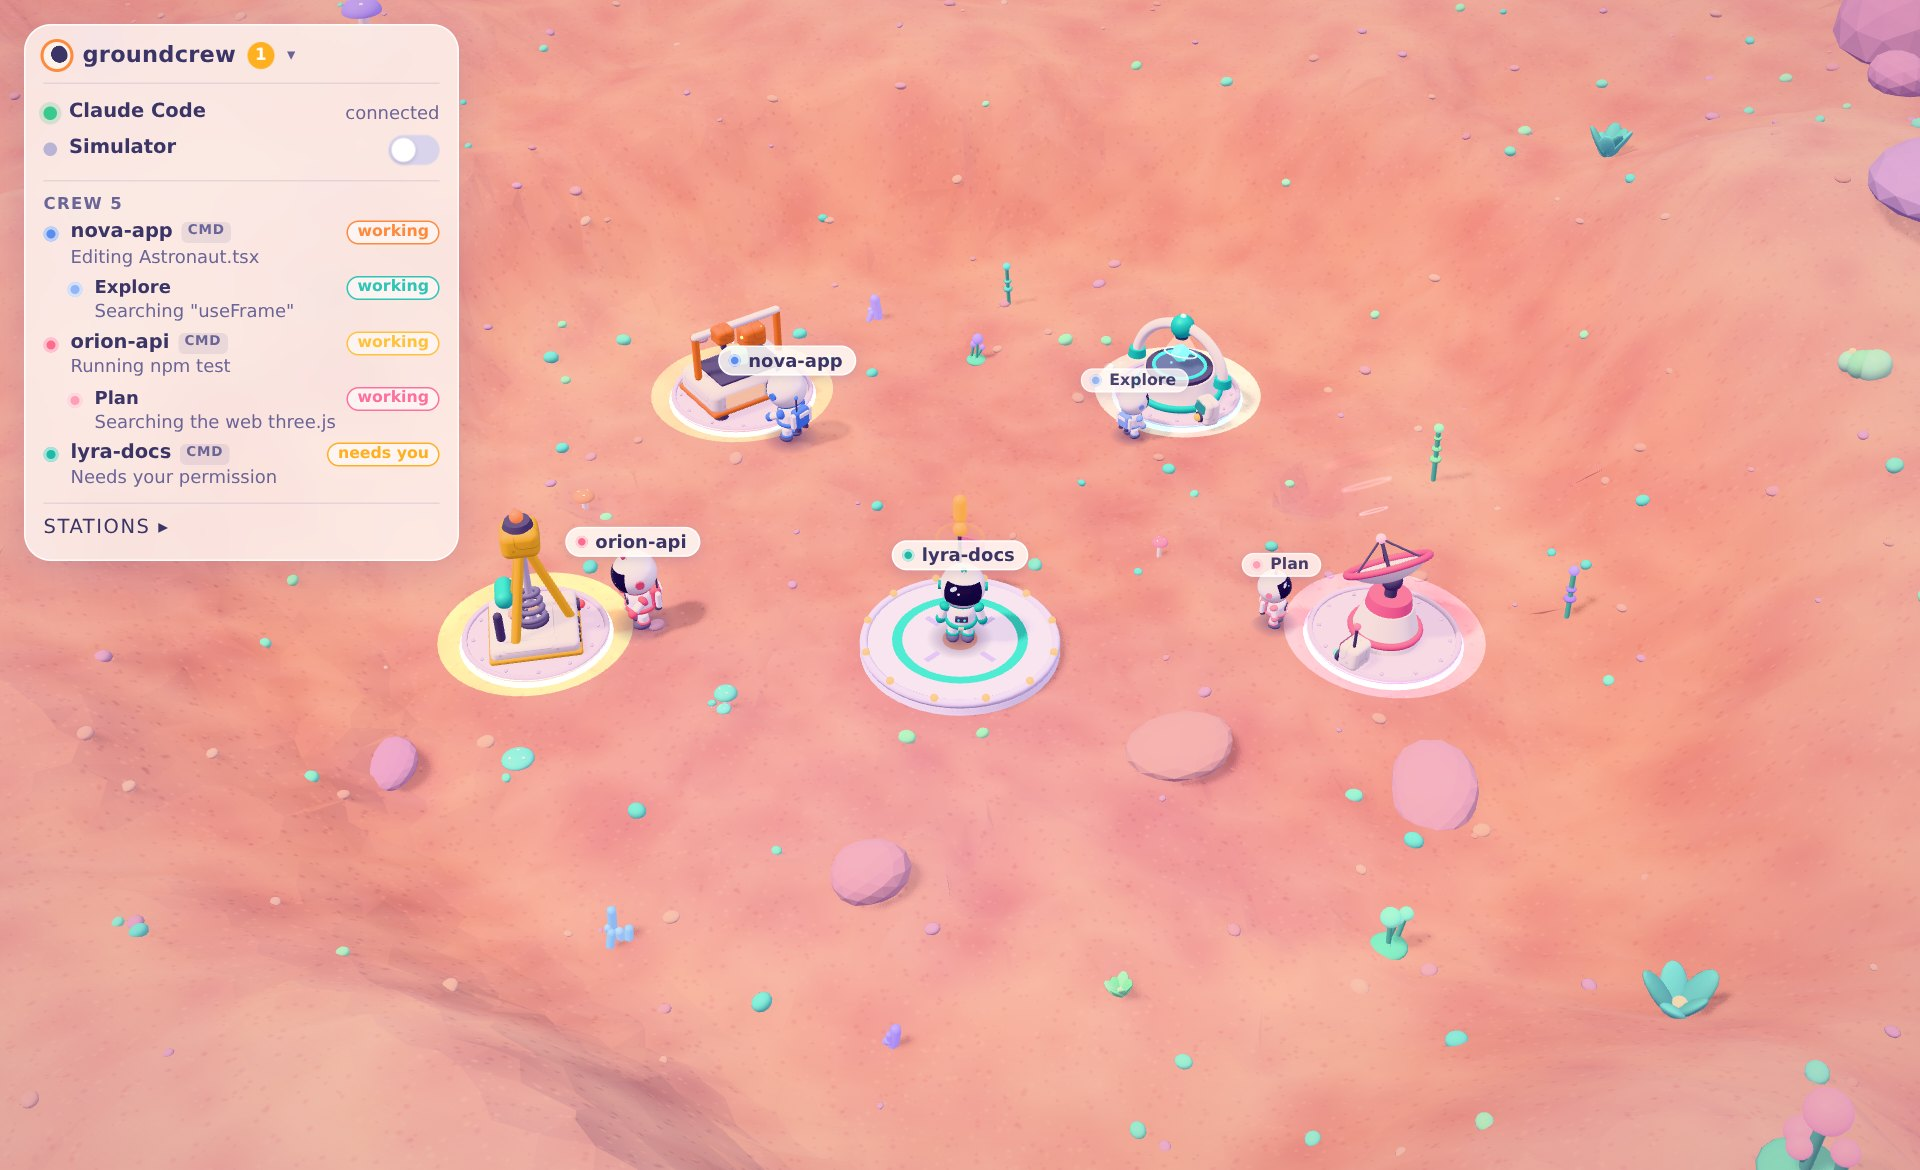
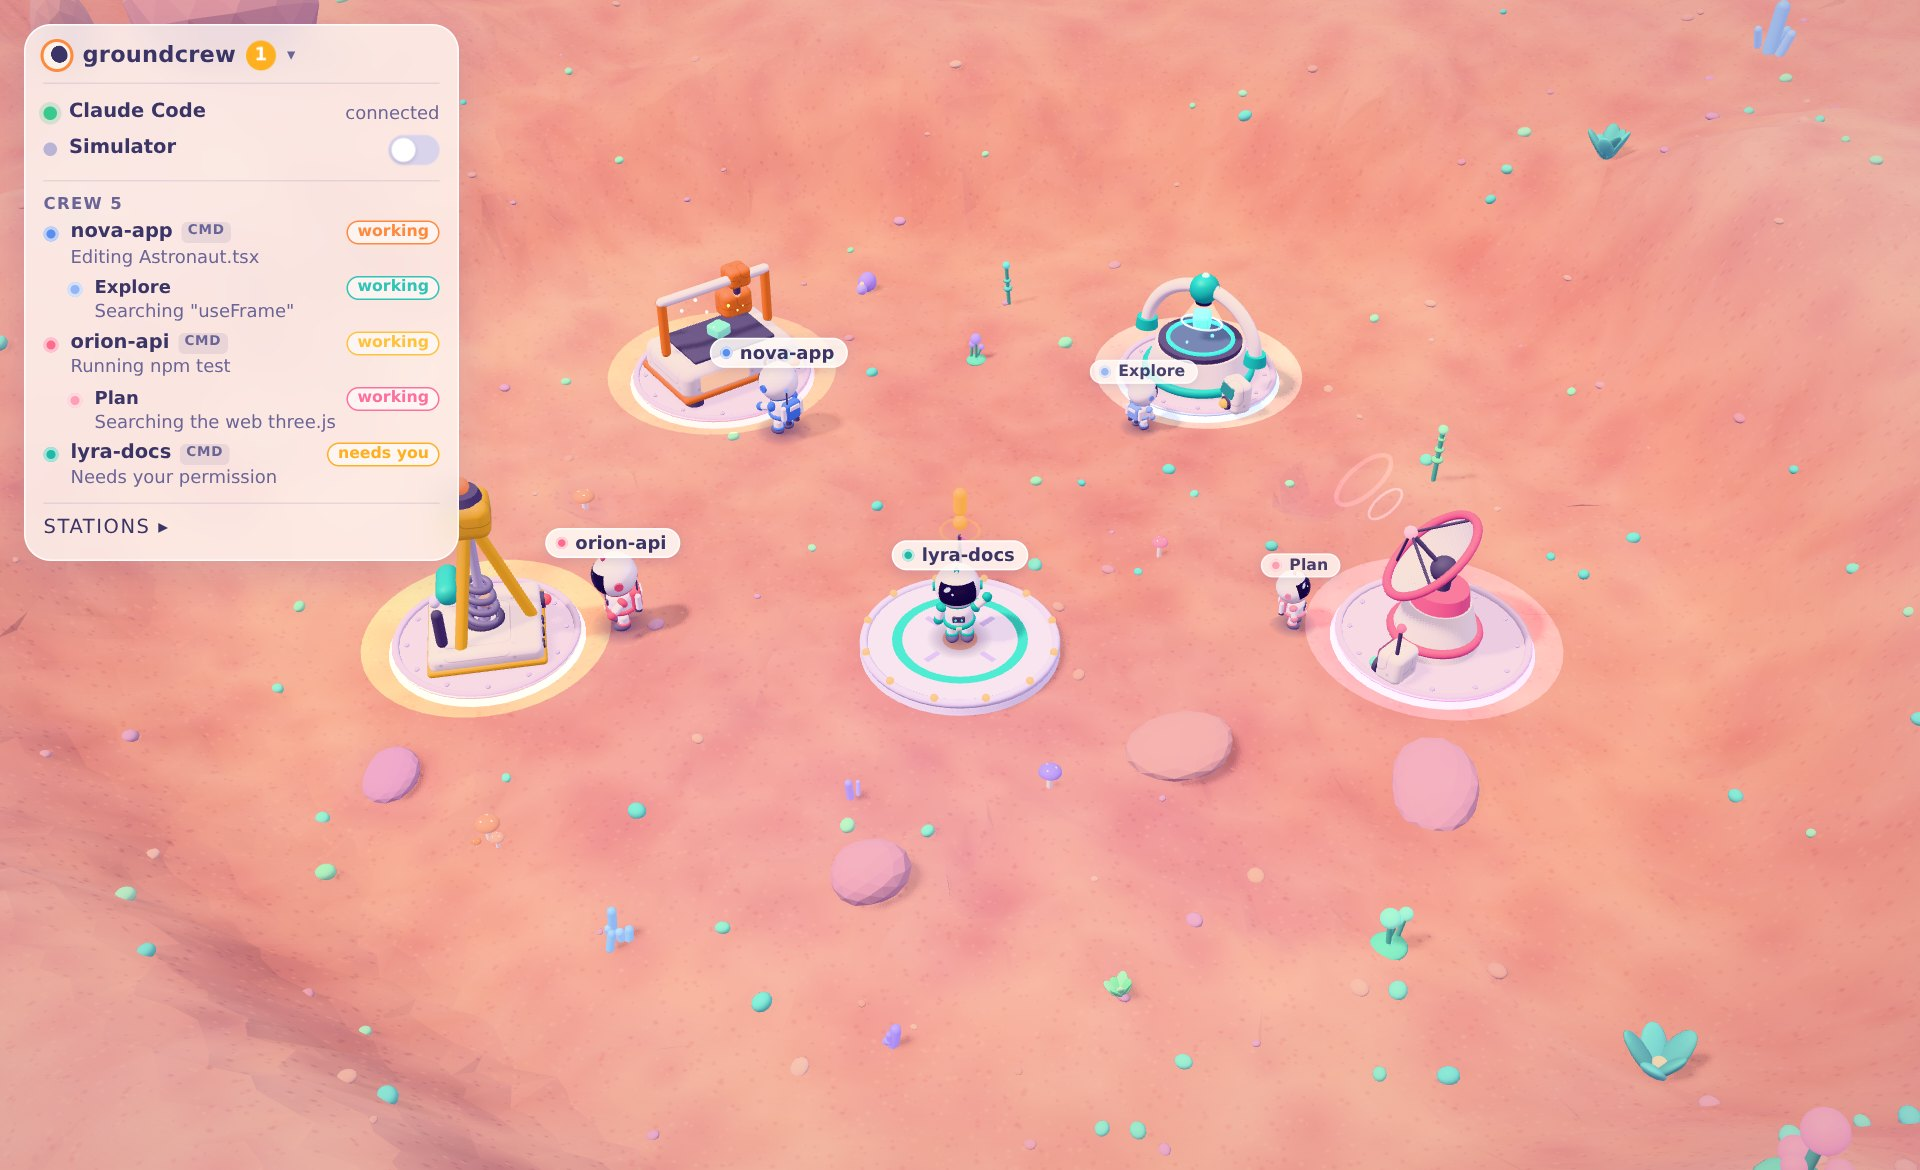
bigger stations, fewer pebbles, stations never sink into terrain
- Stations built at 1.65x (was 1.3x) and moved slightly further out so
  their work spots don't crowd the pad; the landing pad keeps its size
  via a separate PAD_SCALE
- Tiny ground pebbles reduced from 450 to 280
- Fix: flat zones under stations and the pad now cancel hills and
  craters too (not just small bumps), and the hills start further out,
  so the larger stations no longer sink into rising ground

Claude-Session: https://claude.ai/code/session_01YFCG3SbJoMhZyqmf1rs1Uh

diff --git a/web/src/world/config.ts b/web/src/world/config.ts
@@ -54,7 +54,7 @@ export const SURFACE = {
   /** How far the terrain mesh extends (well past anything the camera shows). */
   radius: 120,
   /** Mostly flat base area where the stations are. */
-  baseRadius: 13,
+  baseRadius: 15.5,
   /** Astronauts stay inside this radius. */
   walkRadius: 12.5,
   /** Height of the rolling hills outside the base. */
@@ -62,7 +62,10 @@ export const SURFACE = {
 } as const;
 
 /** Stations and the pad are built at this scale (bigger toys, more readable). */
-export const STATION_SCALE = 1.3;
+export const STATION_SCALE = 1.65;
+
+/** The landing pad is built at its own scale. */
+export const PAD_SCALE = 1.3;
 
 // ---------------------------------------------------------------------------
 // Stations
@@ -140,10 +143,10 @@ function station(
 }
 
 export const STATIONS: Record<StationId, StationConfig> = {
-  fabricator: station('fabricator', 'Fabricator', 'Edit / Write files', '#ff8a3d', [-9, 0, -1.5], 1.35, 1.75),
-  scanner: station('scanner', 'Scanner', 'Read / Grep / Glob', '#2ec4b6', [-1.5, 0, -9], 1.2, 1.65),
-  drill: station('drill', 'Drill', 'Bash commands', '#ffc23c', [-5, 0, 7.5], 1.2, 1.7),
-  radar: station('radar', 'Radar Dish', 'Web search / fetch', '#ff6f9f', [7.5, 0, -5], 1.25, 1.75),
+  fabricator: station('fabricator', 'Fabricator', 'Edit / Write files', '#ff8a3d', [-10, 0, -1.7], 1.35, 1.75),
+  scanner: station('scanner', 'Scanner', 'Read / Grep / Glob', '#2ec4b6', [-1.7, 0, -10], 1.2, 1.65),
+  drill: station('drill', 'Drill', 'Bash commands', '#ffc23c', [-5.6, 0, 8.3], 1.2, 1.7),
+  radar: station('radar', 'Radar Dish', 'Web search / fetch', '#ff6f9f', [8.3, 0, -5.6], 1.25, 1.75),
 };
 
 // ---------------------------------------------------------------------------
@@ -151,13 +154,13 @@ export const STATIONS: Record<StationId, StationConfig> = {
 // ---------------------------------------------------------------------------
 
 const PAD_POSITION: Vec3 = [1.5, 0, 1.5];
-const PAD_RADIUS = 1.55 * STATION_SCALE;
+const PAD_RADIUS = 1.55 * PAD_SCALE;
 
 export const LANDING_PAD = {
   position: PAD_POSITION,
   radius: PAD_RADIUS,
   /** Height of the pad deck above the ground. */
-  deckHeight: 0.2 * STATION_SCALE,
+  deckHeight: 0.2 * PAD_SCALE,
   /** Where waiting astronauts stand (on the pad, facing the camera). */
   slots: [
     [PAD_POSITION[0], 0, PAD_POSITION[2]],

diff --git a/web/src/world/terrain.ts b/web/src/world/terrain.ts
@@ -104,17 +104,21 @@ export function hillAmount(x: number, z: number): number {
 /** Terrain height at (x, z). */
 export function terrainHeight(x: number, z: number): number {
   // Small rolling bumps plus fine roughness that makes the low-poly facets read.
-  let bumps = fbm(x * 0.2, z * 0.2) * 0.45 + fbm(x * 0.9 + 11, z * 0.9 - 3) * 0.14;
-  for (const zone of FLAT_ZONES) {
-    const d = Math.hypot(x - zone.x, z - zone.z);
-    bumps *= smoothstep(zone.radius * 0.75, zone.radius * 1.4, d);
-  }
+  const bumps = fbm(x * 0.2, z * 0.2) * 0.45 + fbm(x * 0.9 + 11, z * 0.9 - 3) * 0.14;
 
   // Big soft hills beyond the base.
   const hills = hillAmount(x, z);
   const hillShape = (fbm(x * 0.05, z * 0.05) * 0.8 + 0.75) * SURFACE.hillHeight + fbm(x * 0.14 + 5, z * 0.14) * 1.6;
 
-  return bumps + craterOffset(x, z) + hills * Math.max(0, hillShape);
+  // Everything (bumps, craters, hills) fades to 0 under stations and the pad,
+  // so machines always sit level at y = 0 and never sink into the ground.
+  let flat = 1;
+  for (const zone of FLAT_ZONES) {
+    const d = Math.hypot(x - zone.x, z - zone.z);
+    flat *= smoothstep(zone.radius * 0.75, zone.radius * 1.4, d);
+  }
+
+  return (bumps + craterOffset(x, z) + hills * Math.max(0, hillShape)) * flat;
 }
 
 /** Point on the terrain surface above (x, z). */

diff --git a/web/src/scene/stations/LandingPad.tsx b/web/src/scene/stations/LandingPad.tsx
@@ -2,7 +2,7 @@ import { useRef } from 'react';
 import { useFrame } from '@react-three/fiber';
 import { RoundedBox } from '@react-three/drei';
 import { Color, type Group, type MeshStandardMaterial } from 'three';
-import { LANDING_PAD, PALETTE, STATION_SCALE } from '../../world/config';
+import { LANDING_PAD, PAD_SCALE, PALETTE } from '../../world/config';
 import type { ActivityRef } from './parts';
 
 const LIGHTS = 12;
@@ -36,9 +36,9 @@ export function LandingPad({ activity }: { activity: ActivityRef }) {
     if (flag.current) flag.current.rotation.y = Math.sin(t * 1.7) * 0.25 + 0.2;
   });
 
-  // Drawn inside a group scaled by STATION_SCALE.
-  const radius = LANDING_PAD.radius / STATION_SCALE;
-  const deckHeight = LANDING_PAD.deckHeight / STATION_SCALE;
+  // Drawn inside a group scaled by PAD_SCALE.
+  const radius = LANDING_PAD.radius / PAD_SCALE;
+  const deckHeight = LANDING_PAD.deckHeight / PAD_SCALE;
 
   return (
     <group>

diff --git a/web/src/scene/stations/Stations.tsx b/web/src/scene/stations/Stations.tsx
@@ -2,7 +2,7 @@ import { useRef, type ComponentType } from 'react';
 import { useFrame } from '@react-three/fiber';
 import { AdditiveBlending, type MeshBasicMaterial } from 'three';
 import type { StationId } from '@groundcrew/shared';
-import { LANDING_PAD, STATION_SCALE, STATIONS, type StationConfig } from '../../world/config';
+import { LANDING_PAD, PAD_SCALE, STATION_SCALE, STATIONS, type StationConfig } from '../../world/config';
 import { Drill } from './Drill';
 import { Fabricator } from './Fabricator';
 import { LandingPad } from './LandingPad';
@@ -60,7 +60,7 @@ export function Stations() {
       {Object.values(STATIONS).map((config) => (
         <StationMount key={config.id} config={config} />
       ))}
-      <group position={LANDING_PAD.position} scale={STATION_SCALE}>
+      <group position={LANDING_PAD.position} scale={PAD_SCALE}>
         <LandingPad activity={padActivity} />
       </group>
     </>

diff --git a/web/src/scene/terrain/GroundClutter.tsx b/web/src/scene/terrain/GroundClutter.tsx
@@ -77,7 +77,7 @@ const tuftOffset = (item: Item) => item.scale * 0.2;
  */
 export function GroundClutter() {
   const pebbleItems = useMemo(
-    () => scatter(450, 40, 3, ['#d9a3ad', '#e6b2a4', '#c89cb7', '#f1c3ae'], 0.06, 0.2),
+    () => scatter(280, 40, 3, ['#d9a3ad', '#e6b2a4', '#c89cb7', '#f1c3ae'], 0.06, 0.2),
     [],
   );
   const tuftItems = useMemo(() => scatter(140, 30, 9, ['#86dcc0', '#6fcfbf', '#a5e5b6'], 0.1, 0.2), []);
